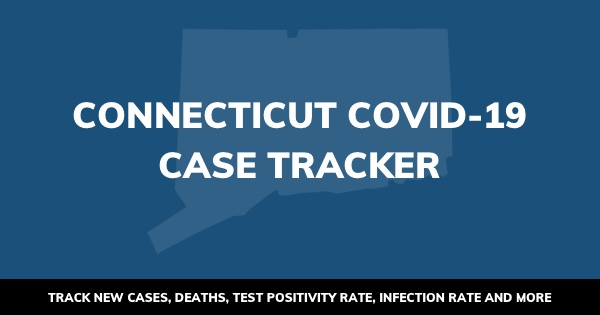
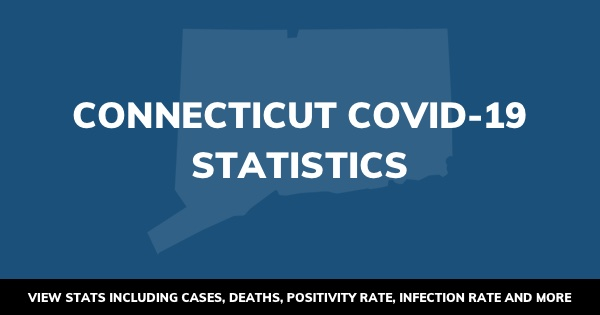
Update language

Changed region(s): [[0.03, 0.9143, 0.96, 0.9714], [0.24, 0.4857, 0.75, 0.5714]]

diff --git a/index.html b/index.html
@@ -1,12 +1,12 @@
 <!DOCTYPE html>
 <html lang="en">
 <head>
-	<title>Connecticut COVID-19 Case Statistic Tracker | CTCOVID.com</title>
+	<title>COVID-19 in Connecticut Statistics | CTCOVID.com</title>
 	
 	<meta http-equiv="Content-Type" content="text/html; charset=UTF-8" />
 	<meta http-equiv="X-UA-Compatible" content="IE=edge" />
 	
-	<meta name="description" content="Track COVID-19 (Coronavirus) cases, deaths and hospitalizations in the State of Connecticut, including data from your local city, town and county" />
+	<meta name="description" content="View statistics about COVID-19 in Connecticut such as new cases, deaths and hospitalization statistics, including data about your local city, town and county." />
 	<meta name="viewport" content="width=device-width, initial-scale=1" />
 	<meta name="theme-color" content="#1f70ad" />
 	<meta name="google-site-verification" content="W8vZpEdEBVCm95aBM811MUmmuElzrDresjqgzUB7sF8" />
@@ -23,8 +23,8 @@
 	
 	<meta property="og:url" content="https://www.ctcovid.com" />
 	<meta property="og:type" content="website" />
-	<meta property="og:title" content="Connecticut COVID-19 Case Tracker" />
-	<meta property="og:description" content="Track cases of COVID-19 (Coronavirus) in the State of Connecticut, including data from your local city or town." />
+	<meta property="og:title" content="Connecticut COVID-19 Statistics" />
+	<meta property="og:description" content="Track COVID-19 (Coronavirus) statistics in the State of Connecticut." />
 	<meta property="og:image" content="https://www.ctcovid.com/preview.jpg" />
 	
 	<script type="text/javascript">
@@ -35,7 +35,7 @@
 <body>
 	<nav>
 		<div class="container">
-			<h1><a href="#connecticut">Connecticut COVID-19 Case Tracker</a></h1>
+			<h1><a href="#connecticut">COVID-19 In Connecticut Statistics</a></h1>
 			
 			<select aria-label="Choose Your County, City or Town"></select>
 			
@@ -198,6 +198,10 @@
 			</section>
 			
 			<div class="fc"></div>
+			
+			<section id="disclaimer">
+				<div class="container">This website is NOT affiliated with the State of Connecticut, any medical institution or testing/vaccination location. It is operated by a private individual solely to provide an easy-to-use alternative to the dashboard provided by the State. You can visit the State of Connecticuts' official COVID-19 web page by <a href="https://portal.ct.gov/Coronavirus" rel="noopener nofollow" target="_blank" style="color: black;">clicking here</a>.</div>
+			</section>
 		</div>
 	</section>
 	
@@ -345,7 +349,7 @@
 			<div class="container">
 				<h3>Important Information</h3>
 				
-				<p>CTCOVID.com allows you to track cases of COVID-19 in Connecticut. You can track case, death and hospitalization statistics on a daily basis for your city, town, county or statewide.</p>
+				<p>CTCOVID.com allows you to view statistics about COVID-19 in Connecticut. You can view case, death and hospitalization statistics on a daily basis for your city, town, county or statewide.</p>
 				
 				<p>This website does not provide medical or public health advice and is not intended to diagnose, treat, cure, or prevent any disease. Please visit the <a href="https://www.cdc.gov/coronavirus/2019-nCoV/index.html" target="_blank" rel="noopener nofollow">Centers for Disease Control and Prevention</a> website for more information about COVID-19.</p>
 				
@@ -393,7 +397,7 @@
 			}
 		} catch(e) {}
 		
-		window.CT = new COVID_Tracker(window.location.hash != '' && window.location.hash != null ? (window.location.hash.replace('#', '') || 'connecticut') : 'connecticut');
+		window.CT = new COVID_Statistics(window.location.hash != '' && window.location.hash != null ? (window.location.hash.replace('#', '') || 'connecticut') : 'connecticut');
 	});
 	
 	// frame buster

diff --git a/js/application.js b/js/application.js
@@ -1,4 +1,4 @@
-var COVID_Tracker = function(city) {
+var COVID_Statistics = function(city) {
 	this.data = false;
 	
 	// list of ct cities
@@ -549,7 +549,7 @@ var COVID_Tracker = function(city) {
 			document.querySelector("section#top").style.display = 'block';
 			document.querySelector("main").style.display = 'block';
 		} else {
-			document.querySelector("article").innerHTML = '<div class="container">' + data + '</div>';
+			document.querySelector("article").innerHTML = '<div class="container">' + data.replace('E_M_A_I_L', ['m', 'o', 'c', '.', 'd', 'i', 'v', 'o', 'c', 't', 'c', '@', 'y', 'l', 'n', 'o', '.', 's', 't', 's', 'e', 'u', 'q', 'e', 'r', '.', 'y', 'c', 'i', 'l', 'o', 'p', '.', 'y', 'c', 'a', 'v', 'i', 'r', 'p'].reverse().join("")) + '</div>';
 			document.querySelector("article").style.display = 'block';
 			document.querySelector("section#top").style.display = 'none';
 			document.querySelector("main").style.display = 'none';
@@ -1179,7 +1179,7 @@ var COVID_Tracker = function(city) {
 				break;
 		}
 		
-		message = '<p>' + message + ' <strong>New cases and deaths can still happen at any time</strong>.</p><p>Continue to social distance, wear a face covering and follow the practices and instructions provided to you from your local, state and/or federal health officials.</p>';
+		message = '<p>' + message + ' <strong>New cases and deaths can still happen at any time</strong>.</p>';
 		
 		if(a == 0 && c != 0 && 0) {
 			message += '<p><strong>Important:</strong> While it may appear that the new cases graph is beginning to flatten, it is important to remember that a limited time of no growth is not necessarily indicative of a long-term trend; consistent decreases in nearby towns and cities is required to declare a flattening curve.</p>';

diff --git a/stylesheet.css b/stylesheet.css
@@ -127,6 +127,15 @@ nav select {
 	padding: 4px;
 }
 
+/* Disclaimer */
+section#disclaimer {
+	font-size: 11pt; 
+	font-weight: bold; 
+	color: red;
+	line-height: 175%;
+	padding-bottom: 25px;
+}
+
 /* Notice */
 section#notice {
 	margin-top: 15px;
@@ -1063,6 +1072,7 @@ section#copyright p:first-child {
 		padding-bottom: 13px;
 	}
 	
+	section#disclaimer div.container,
 	section#stats div.container {
 		padding: 13px;
 	}
